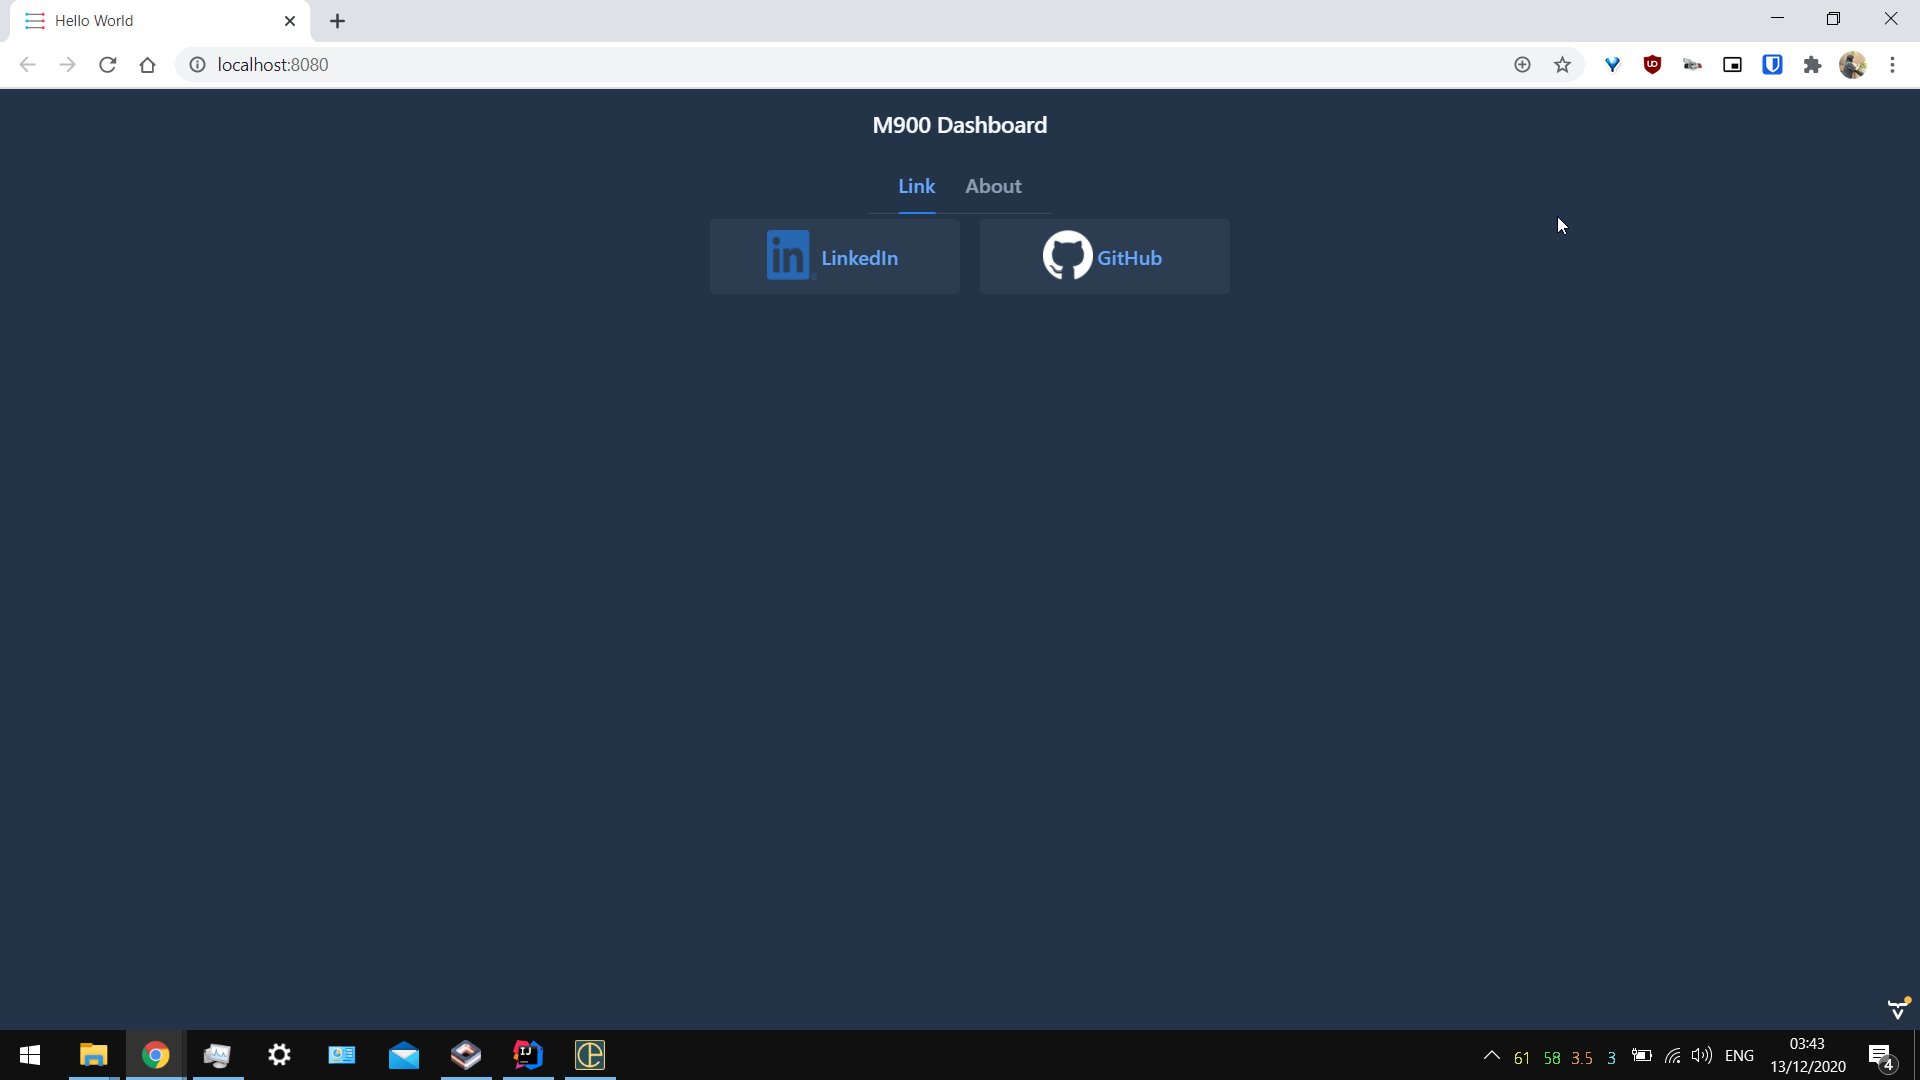
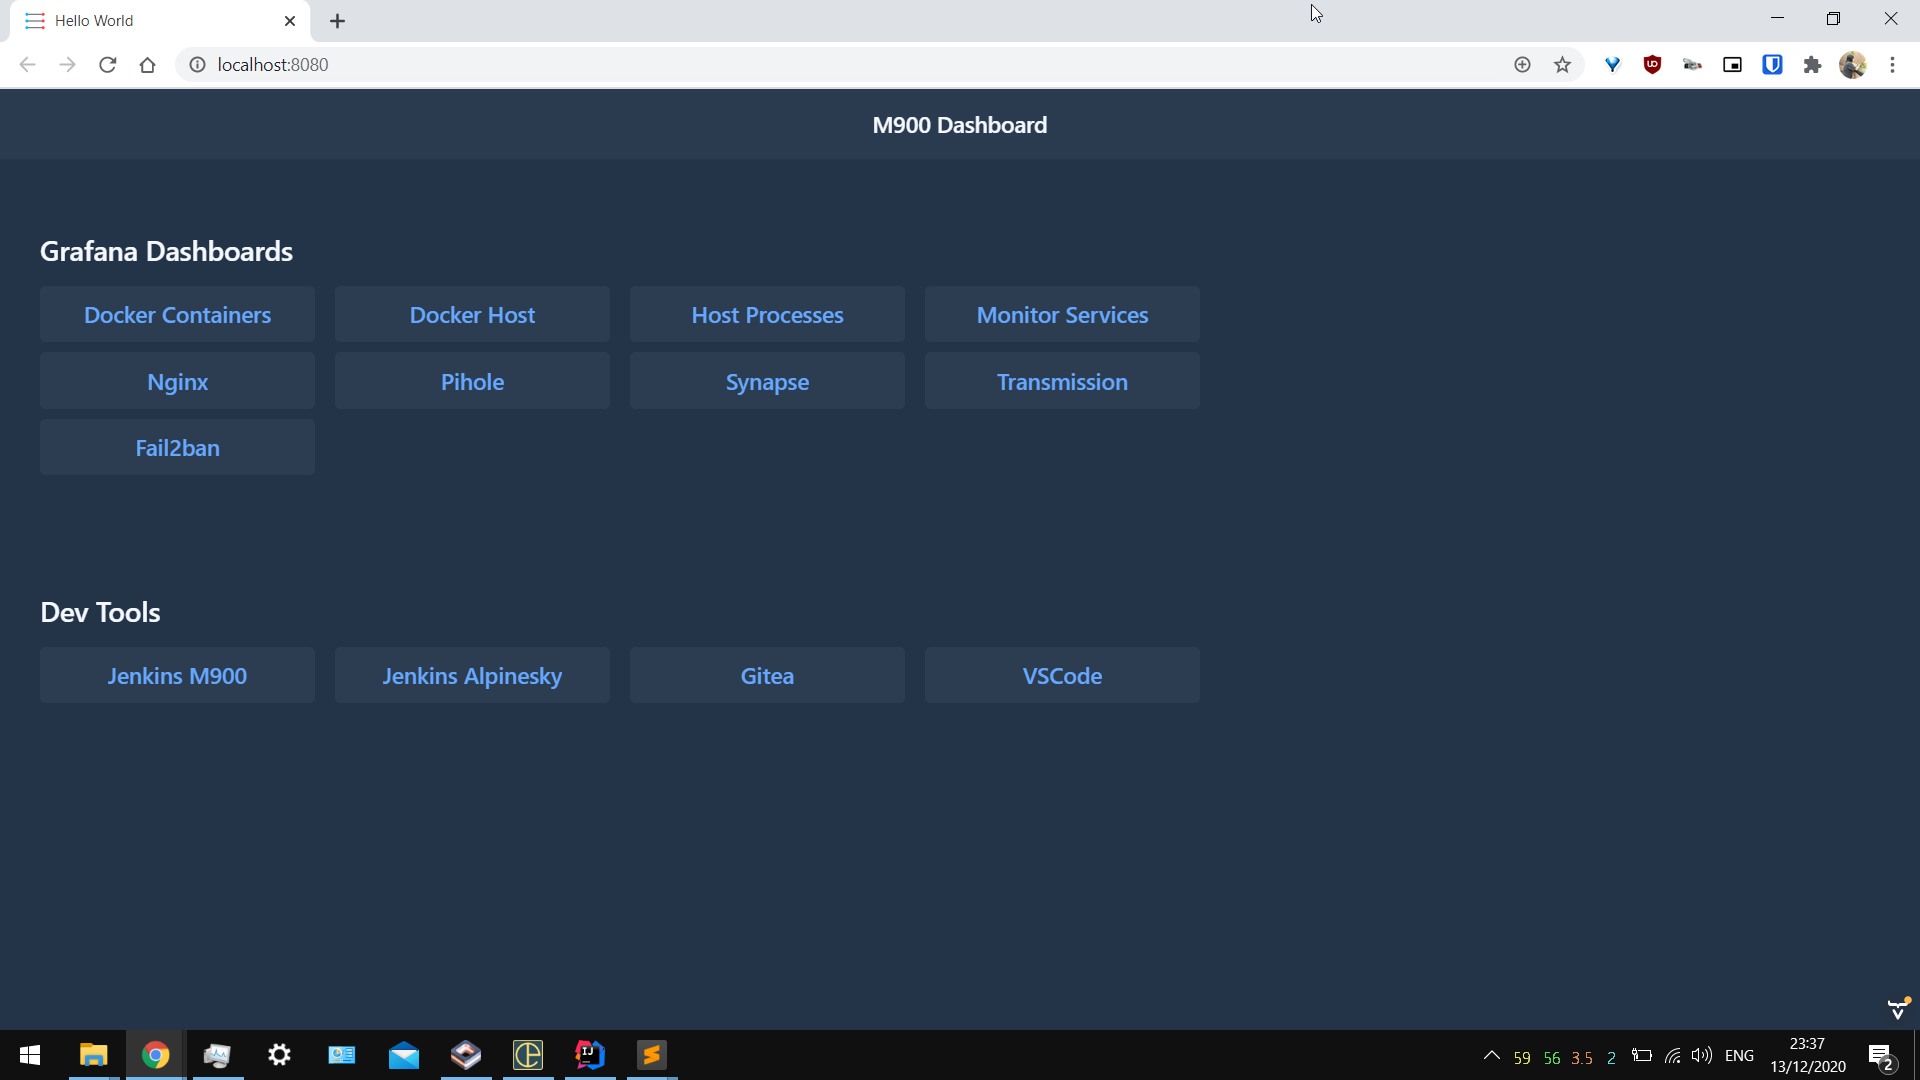
add multiple link shortcuts to grafana dashboards and other dev tools

diff --git a/frontend/styles/views/main/sakura.css b/frontend/styles/views/main/sakura.css
@@ -1,0 +1,205 @@
+/* Sakura.css v1.3.1
+ * ================
+ * Minimal css theme.
+ * Project: https://github.com/oxalorg/sakura/
+ */
+/* Body */
+html {
+  font-size: 100%;
+  font-family: -apple-system, BlinkMacSystemFont, "Segoe UI", Roboto, "Helvetica Neue", Arial, "Noto Sans", sans-serif; }
+
+body {
+  font-size: 1.8rem;
+  line-height: 1.618;
+  max-width: 38em;
+  margin: auto;
+  /*
+  color: #4a4a4a;
+  background-color: #f9f9f9;
+  */
+  color: #fffacd;
+  background-color: #1a1a1a;
+  padding: 13px; }
+
+@media (max-width: 684px) {
+  body {
+    font-size: 1.53rem; } }
+
+@media (max-width: 382px) {
+  body {
+    font-size: 1.35rem; } }
+
+h1, h2, h3, h4, h5, h6 {
+  line-height: 1.1;
+  font-family: -apple-system, BlinkMacSystemFont, "Segoe UI", Roboto, "Helvetica Neue", Arial, "Noto Sans", sans-serif;
+  font-weight: 700;
+  margin-top: 3rem;
+  margin-bottom: 1.5rem;
+  overflow-wrap: anywhere;
+  word-wrap: anywhere;
+  -ms-word-break: break-all;
+  word-break: normal; }
+
+h1 {
+  font-size: 2.35em; }
+
+h2 {
+  font-size: 2.00em; }
+
+h3 {
+  font-size: 1.75em; }
+
+h4 {
+  font-size: 1.5em; }
+
+h5 {
+  font-size: 1.25em; }
+
+h6 {
+  font-size: 1em; }
+
+p {
+  margin-top: 0px;
+  margin-bottom: 2.5rem; }
+
+small, sub, sup {
+  font-size: 75%; }
+
+hr {
+  border-color: #1d7484; }
+
+/*a {
+  text-decoration: none;
+  color: #1d7484; }
+  a:hover {
+    color: #982c61;
+    border-bottom: 2px solid #4a4a4a; }
+  a:visited {
+    color: #144f5a; }*/
+a {
+  text-decoration: none;
+  color: #fff599; }
+  a:hover {
+    color: #ffed4d;
+    border-bottom: 2px solid #4a4a4a; }
+  a:visited {
+    color: #ffed4d; }
+
+ul {
+  padding-left: 1.4em;
+  margin-top: 0px;
+  margin-bottom: 2.5rem; }
+
+li {
+  margin-bottom: 0.4em; }
+
+blockquote {
+  margin-left: 0px;
+  margin-right: 0px;
+  padding-left: 1em;
+  padding-top: 0.8em;
+  padding-bottom: 0.8em;
+  padding-right: 0.8em;
+  border-left: 5px solid #1d7484;
+  margin-bottom: 2.5rem;
+  background-color: #f1f1f1; }
+
+blockquote p {
+  margin-bottom: 0; }
+
+img, video {
+  height: auto;
+  max-width: 100%;
+  margin-top: 0px;
+  margin-bottom: 2.5rem; }
+
+/* Pre and Code */
+pre {
+  background-color: #f1f1f1;
+  display: block;
+  padding: 1em;
+  overflow-x: auto;
+  margin-top: 0px;
+  margin-bottom: 2.5rem; }
+
+code {
+  font-size: 0.9em;
+  padding: 0 0.5em;
+  background-color: #f1f1f1;
+  white-space: pre-wrap; }
+
+pre > code {
+  padding: 0;
+  background-color: transparent;
+  white-space: pre; }
+
+/* Tables */
+table {
+  text-align: justify;
+  width: 100%;
+  border-collapse: collapse; }
+
+td, th {
+  padding: 0.5em;
+  border-bottom: 1px solid #f1f1f1; }
+
+/* Buttons, forms and input */
+input, textarea {
+  border: 1px solid #4a4a4a; }
+  input:focus, textarea:focus {
+    border: 1px solid #1d7484; }
+
+textarea {
+  width: 100%; }
+
+.button, button, input[type="submit"], input[type="reset"], input[type="button"] {
+  display: inline-block;
+  padding: 5px 10px;
+  text-align: center;
+  text-decoration: none;
+  white-space: nowrap;
+  background-color: #1d7484;
+  color: #f9f9f9;
+  border-radius: 1px;
+  border: 1px solid #1d7484;
+  cursor: pointer;
+  box-sizing: border-box; }
+  .button[disabled], button[disabled], input[type="submit"][disabled], input[type="reset"][disabled], input[type="button"][disabled] {
+    cursor: default;
+    opacity: .5; }
+  .button:focus:enabled, .button:hover:enabled, button:focus:enabled, button:hover:enabled, input[type="submit"]:focus:enabled, input[type="submit"]:hover:enabled, input[type="reset"]:focus:enabled, input[type="reset"]:hover:enabled, input[type="button"]:focus:enabled, input[type="button"]:hover:enabled {
+    background-color: #982c61;
+    border-color: #982c61;
+    color: #f9f9f9;
+    outline: 0; }
+
+textarea, select, input {
+  color: #4a4a4a;
+  padding: 6px 10px;
+  /* The 6px vertically centers text on FF, ignored by Webkit */
+  margin-bottom: 10px;
+  background-color: #f1f1f1;
+  border: 1px solid #f1f1f1;
+  border-radius: 4px;
+  box-shadow: none;
+  box-sizing: border-box; }
+  textarea:focus, select:focus, input:focus {
+    border: 1px solid #1d7484;
+    outline: 0; }
+
+input[type="checkbox"]:focus {
+  outline: 1px dotted #1d7484; }
+
+label, legend, fieldset {
+  display: block;
+  margin-bottom: .5rem;
+  font-weight: 600; }
+
+main {
+  display: flex;
+  flex-direction: column;
+  min-height: 95vh;
+  justify-content: center;
+  padding: 0 30px;
+  text-align: center;
+}

diff --git a/src/main/java/com/shennarwp/m900/views/helloworld/LinkView.java b/src/main/java/com/shennarwp/m900/views/helloworld/LinkView.java
@@ -1,19 +1,21 @@
 package com.shennarwp.m900.views.helloworld;
 
 import com.shennarwp.m900.views.main.MainView;
+import com.vaadin.flow.component.UI;
 import com.vaadin.flow.component.button.Button;
+import com.vaadin.flow.component.button.ButtonVariant;
 import com.vaadin.flow.component.dependency.CssImport;
-import com.vaadin.flow.component.html.Image;
+import com.vaadin.flow.component.html.H3;
 import com.vaadin.flow.component.orderedlayout.HorizontalLayout;
+import com.vaadin.flow.component.orderedlayout.VerticalLayout;
 import com.vaadin.flow.component.textfield.TextField;
 import com.vaadin.flow.router.PageTitle;
 import com.vaadin.flow.router.Route;
 import com.vaadin.flow.router.RouteAlias;
-import org.vaadin.olli.BrowserOpener;
 
 @Route(value = "hello", layout = MainView.class)
 @PageTitle("Hello World")
-@CssImport("./styles/views/helloworld/hello-world-view.css")
+@CssImport("./styles/views/linkview/hello-world-view.css")
 @RouteAlias(value = "", layout = MainView.class)
 public class LinkView extends HorizontalLayout {
 
@@ -21,59 +23,99 @@ public class LinkView extends HorizontalLayout {
     private Button sayHello;
 
     public LinkView() {
-//        setId("hello-world-view");
-//        name = new TextField("Your name");
-//        sayHello = new Button("Say hello");
-//
-//        Anchor anchor = new Anchor("https://vaadin.com", "Doing it right with...");
-//        add(anchor);
-//
-//        add(name, sayHello);
-//        setVerticalComponentAlignment(Alignment.END, name, sayHello);
-//        sayHello.addClickListener(e -> {
-//            Notification.show("Hello " + name.getValue());
-//        });
-//        Anchor anchor = new Anchor("https://vaadin.com", "Doing it right with...");
-//        Anchor anchor2 = new Anchor("https://vaadin.com", "Doing it right with...");
-//        Anchor anchor3 = new Anchor("https://vaadin.com", "Doing it right with...");
-        setAlignItems(Alignment.CENTER);
-        setAlignSelf(Alignment.CENTER);
-        setJustifyContentMode(JustifyContentMode.CENTER);
-//        add(anchor,anchor2,anchor3);
+        setId("linkview");
 
-        Button githubButton = new Button("GitHub");
-        Image githubIcon = new Image("icons/GitHub-Mark-Light-120px-plus.png", "githubIcon");
-        githubIcon.setHeight("40px");
-        githubIcon.setWidth("40px");
-        githubButton.setIcon(githubIcon);
-        githubButton.setHeight("60px");
-        githubButton.setWidth("200px");
-        add(githubButton);
+        setWidth("1060px");
 
-        BrowserOpener bo = new BrowserOpener();
-        bo.setContent(githubButton);
-        bo.setUrl("http://github.com/shennarwp");
-        add(bo);
-
-        Button linkedinButton = new Button("LinkedIn");
-        Image linkedinIcon = new Image("icons/LI-In-Bug.png", "linkedInIcon");
-        linkedinIcon.setHeight("40px");
-        linkedinIcon.setWidth("40px");
-        linkedinButton.setIcon(linkedinIcon);
-        linkedinButton.setHeight("60px");
-        linkedinButton.setWidth("200px");
-        add(linkedinButton);
-
-        BrowserOpener bo2 = new BrowserOpener();
-        bo2.setContent(githubButton);
-        bo2.setUrl("https://www.linkedin.com/in/shennarwp/");
-        add(bo2);
-
-
+        setSpacing(false);
         setPadding(false);
         setMargin(false);
 
-        setSpacing(true);
+        VerticalLayout layout = new VerticalLayout();
+
+        layout.setPadding(false);
+        layout.setSpacing(false);
+        layout.setMargin(false);
+
+        layout.add(createGrafanaLayout());
+        layout.add(createDevToolsLayout());
+        add(layout);
+
+
+
+    }
+
+    private VerticalLayout createGrafanaLayout() {
+        Button gfDockerContainer = button("Docker Containers", "https://m900.shennarwp.com/grafana/d/dc/docker-containers");
+        Button gfDockerHost = button("Docker Host", "https://m900.shennarwp.com/grafana/d/doh/docker-host");
+        Button gfHostProcess = button("Host Processes", "https://m900.shennarwp.com/grafana/d/prh/host-processes");
+        Button gfMonitorServices = button("Monitor Services", "https://m900.shennarwp.com/grafana/d/mon/monitor-services");
+
+        HorizontalLayout hor1 = createLayout();
+        hor1.add(gfDockerContainer, gfDockerHost, gfHostProcess, gfMonitorServices);
+
+        Button gfNginx = button("Nginx","https://m900.shennarwp.com/grafana/d/ngx/nginx");
+        Button gfPihole = button("Pihole", "https://m900.shennarwp.com/grafana/d/pih/pihole");
+        Button gfSynapse = button("Synapse", "https://m900.shennarwp.com/grafana/d/syn/synapse");
+        Button gfTransmission = button("Transmission", "https://m900.shennarwp.com/grafana/d/tra/transmission");
+
+        HorizontalLayout hor2 = createLayout();
+        hor2.add(gfNginx, gfPihole, gfSynapse, gfTransmission);
+
+        Button gfF2b = button("Fail2ban", "https://m900.shennarwp.com/grafana/d/f2b/fail2ban-banned-locations");
+
+        HorizontalLayout hor3 = createLayout();
+        hor3.add(gfF2b);
+
+        VerticalLayout ver1 = createVerticalLayout("Grafana Dashboards");
+        ver1.add(hor1, hor2, hor3);
+
+        return ver1;
+    }
+
+    private VerticalLayout createDevToolsLayout() {
+        //Button portainerM900 = button("Portainer M900", "https://m900.shennarwp.com/portainer/");
+        Button jenkinsM900 = button("Jenkins M900", "https://m900.shennarwp.com/jenkins/");
+        Button jenkinsAlpinesky = button("Jenkins Alpinesky", "https://shennarwp.com/jenkins/");
+        Button gitea = button("Gitea", "https://m900.shennarwp.com/git/shennarwp");
+        Button vscode = button("VSCode", "https://m900.shennarwp.com/vscode/");
+
+        HorizontalLayout hor1 = createLayout();
+        hor1.add(jenkinsM900, jenkinsAlpinesky, gitea, vscode);
+        //Button portainerAlpinesky = button("Portainer Alpinesky", "https://shennarwp.com/portainer");
+        VerticalLayout ver1 = createVerticalLayout("Dev Tools");
+        ver1.add(hor1);
+        return ver1;
+    }
+
+    private Button button(String caption, String url) {
+        Button button = new Button(caption);
+        button.addThemeVariants(ButtonVariant.LUMO_LARGE);
+        button.setHeight("45px");
+        button.setWidth("220px");
+        button.addClickListener(e -> UI.getCurrent().getPage().setLocation(url));
+        return button;
+    }
+
+    private HorizontalLayout createLayout() {
+        HorizontalLayout hl = new HorizontalLayout();
+        hl.setWidthFull();
+        add(hl);
+        hl.setPadding(false);
+        hl.setSpacing(true);
+        return hl;
+    }
+
+    private VerticalLayout createVerticalLayout(String caption) {
+        VerticalLayout vl = new VerticalLayout();
+        vl.setWidthFull();
+        vl.add(new H3(caption));
+        add(vl);
+        //vl.getStyle().set("background-color", "#dddddd");
+        vl.setPadding(true);
+        vl.setSpacing(false);
+        vl.setMargin(true);
+        return vl;
     }
 
 }

diff --git a/src/main/java/com/shennarwp/m900/views/main/MainView.java b/src/main/java/com/shennarwp/m900/views/main/MainView.java
@@ -31,7 +31,8 @@ public class MainView extends AppLayout {
     public MainView() {
         HorizontalLayout header = createHeader();
         menu = createMenuTabs();
-        addToNavbar(createTopBar(header, menu));
+        //addToNavbar(createTopBar(header, menu));
+        addToNavbar(header);
     }
 
     private VerticalLayout createTopBar(HorizontalLayout header, Tabs menu) {
